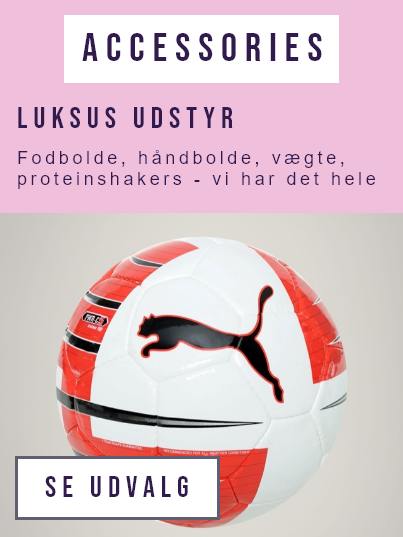
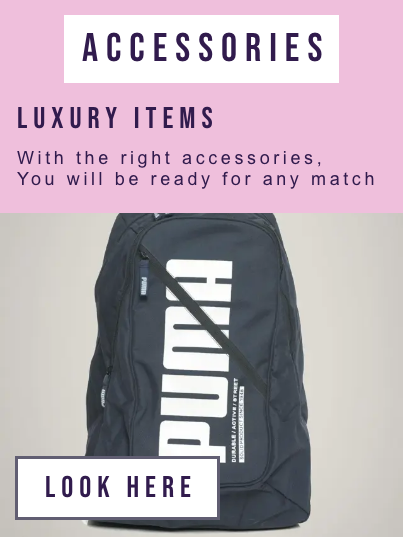
virker med billeder category

diff --git a/kategori.html b/kategori.html
@@ -1,45 +1,26 @@
 <!DOCTYPE html>
 <html lang="en">
-  <head>
-    <meta charset="UTF-8" />
-    <meta name="viewport" content="width=device-width, initial-scale=1.0" />
-    <title>SPORTY CLOTHES</title>
-    <link rel="stylesheet" href="kategori.css" />
-    <link rel="stylesheet" href="generel_styles.css" />
-    <link rel="stylesheet" href="https://use.typekit.net/bfr5ztl.css" />
-  </head>
-  <body>
-    <header>
-      <img src="./img/sportylogo.jpg" alt="" />
-      <div class="topnav">
-        <a href="kategori.html">Startside</a>
-        <a href="kategori.html">Kategori</a>
-
-        
-      </div>
-    </header>
-    <main>
-      <div class="category_container">
-        <template>
-          <ul>
-            <li><a href="produktliste.html">
-              <img src="img/women.png" alt=""
-            /></a></li></template>
-          </ul></div
-        >
-
-        <!-- <div class="men">
-          <a href="produktliste.html"> <img src="img/men.png" alt="" /></a>
-        </div>
-        <div class="footwear">
-          <a href="produktliste.html"> <img src="img/footwear.png" alt="" /></a>
-        </div>
-        <div class="accessories">
-          <a href="produktliste.html">
-            <img src="img/accessories.png" alt=""
-          /></a>-->
-      </div>
-    </main>
-    <script src="kategori.js"></script>
-  </body>
+<head>
+  <meta charset="UTF-8">
+  <meta name="viewport" content="width=device-width, initial-scale=1.0">
+  <title>SPORTY CLOTHES</title>
+  <link rel="stylesheet" href="kategori.css">
+  <link rel="stylesheet" href="generel_styles.css">
+  <link rel="stylesheet" href="https://use.typekit.net/bfr5ztl.css">
+</head>
+<body>
+  <header>
+    <img src="./img/sportylogo.jpg" alt="">
+    <div class="topnav">
+      <a href="kategori.html">Startside</a>
+      <a href="kategori.html">Kategori</a>
+    </div>
+  </header>
+  <main>
+    <div class="category_container">
+      <!-- Images will be added here dynamically -->
+    </div>
+  </main>
+  <script src="kategori.js"></script>
+</body>
 </html>

diff --git a/kategori.js b/kategori.js
@@ -1,30 +1,42 @@
+// Define a category-to-image mapping object
+const categoryImages = {
+accessories: "img/accessories.png",
+  apparel: "img/apparel.png",
+  footwear: "img/footwear.png",
+  freeitems: "img/freeitems.png",
+  personalcare: "img/personalcare.png",
+  sportinggoods: "img/sportinggoods.png",
+  // Add URLs for other categories here
+  // For example:
+  // category1: "img/category1.png",
+  // category2: "img/category2.png",
+  // ...
+};
 
 
+// Fetch categories and show category images
 fetch("https://kea-alt-del.dk/t7/api/categories")
-.then(res=>res.json())
-.then(showCategories)
+  .then((res) => res.json())
+  .then(showCategories);
 
-function showCategories(cats){
-    cats.forEach(showCategory)
-        
-}
+function showCategories(cats) {
+  const categoryContainer = document.querySelector(".category_container");
 
-function showCategory(cat) {
+  cats.forEach((cat) => {
+    // Create an <a> element
+    const categoryLink = document.createElement("a");
+    categoryLink.href = `produktliste.html?category=${cat.category}`;
 
-//catch
-const template = document.querySelector("template").content;
+    // Create an <img> element
+    const categoryImage = document.createElement("img");
+    const categoryNameKey = cat.category.toLowerCase().replace(/ /g, ''); // Convert to lowercase and remove spaces
+    categoryImage.src = categoryImages[categoryNameKey]; // Set the image source based on the modified category name
+    categoryImage.alt = cat.category; // Set alt text (you can customize this)
 
-//clone
-const clone = template.cloneNode(true);
+    // Append the image to the link
+    categoryLink.appendChild(categoryImage);
 
-//change
-clone.querySelector("a").textContent=cat.category;
-clone.querySelector("a").href =`produktliste.html?category=${cat.category}`;
-
-
-
-
-//append
-
-document.querySelector(".category_container").appendChild(clone);
+    // Append the link to the category container
+    categoryContainer.appendChild(categoryLink);
+  });
 }

diff --git a/img/brands.html b/img/brands.html
@@ -1,0 +1,25 @@
+<!DOCTYPE html>
+<html lang="en">
+  <head>
+    <meta charset="UTF-8" />
+    <meta name="viewport" content="width=device-width, initial-scale=1.0" />
+    <title>SPORTY CLOTHES</title>
+    <link rel="stylesheet" href="brands.css" />
+    <link rel="stylesheet" href="generel_styles.css" />
+    <link rel="stylesheet" href="https://use.typekit.net/bfr5ztl.css" />
+  </head>
+  <body>
+    <header>
+      <img src="./img/sportylogo.jpg" alt="" />
+      <div class="topnav">
+        <a href="kategori.html">Startside</a>
+        <a href="kategori.html">Kategori</a>
+        <a href="brands.html">Brands</a>
+      </div>
+    </header>
+    <main>
+      <div class="brands_container"></div>
+    </main>
+    <script src="brands.js"></script>
+  </body>
+</html>
